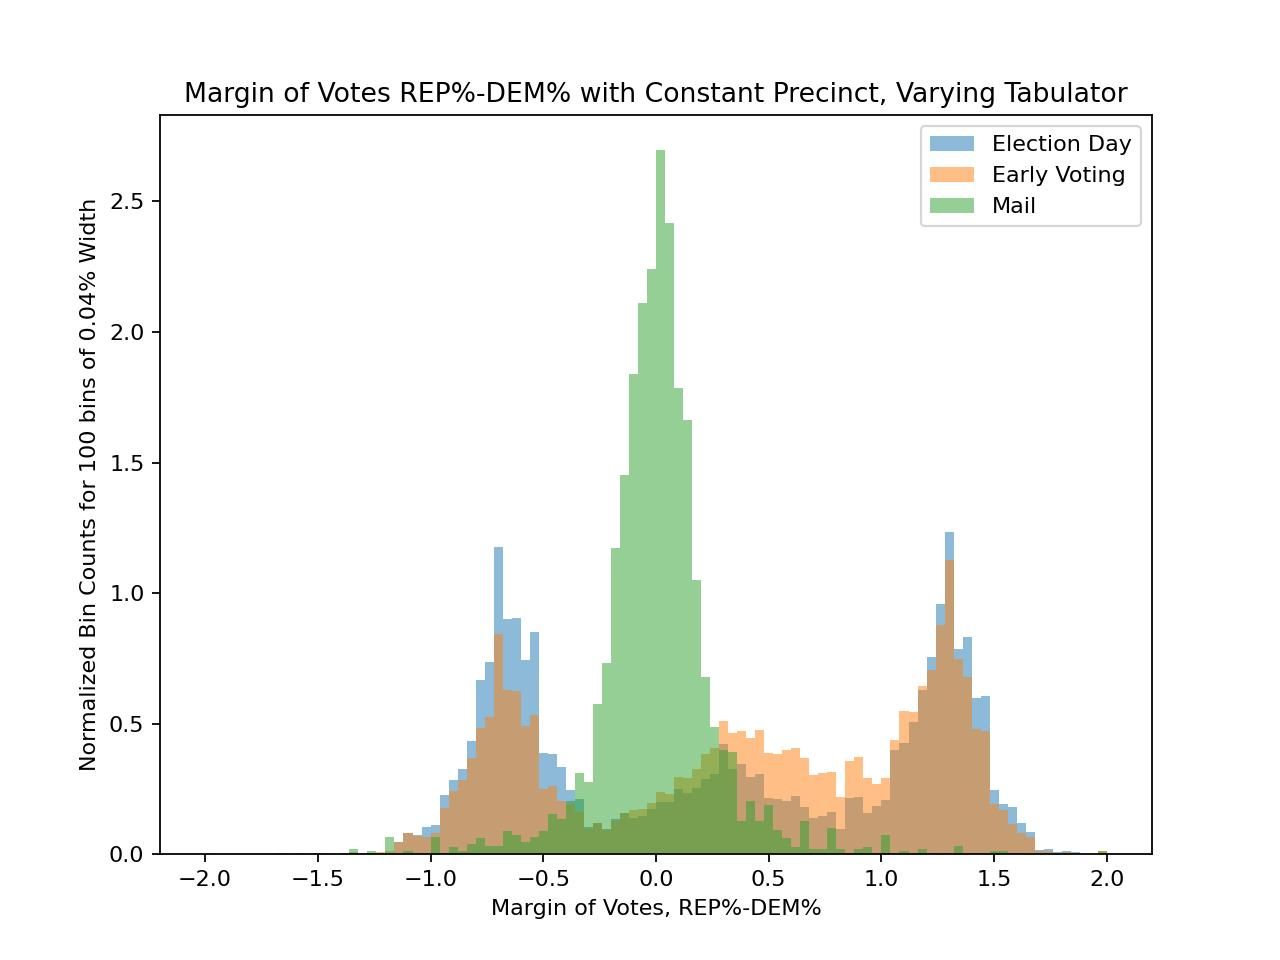
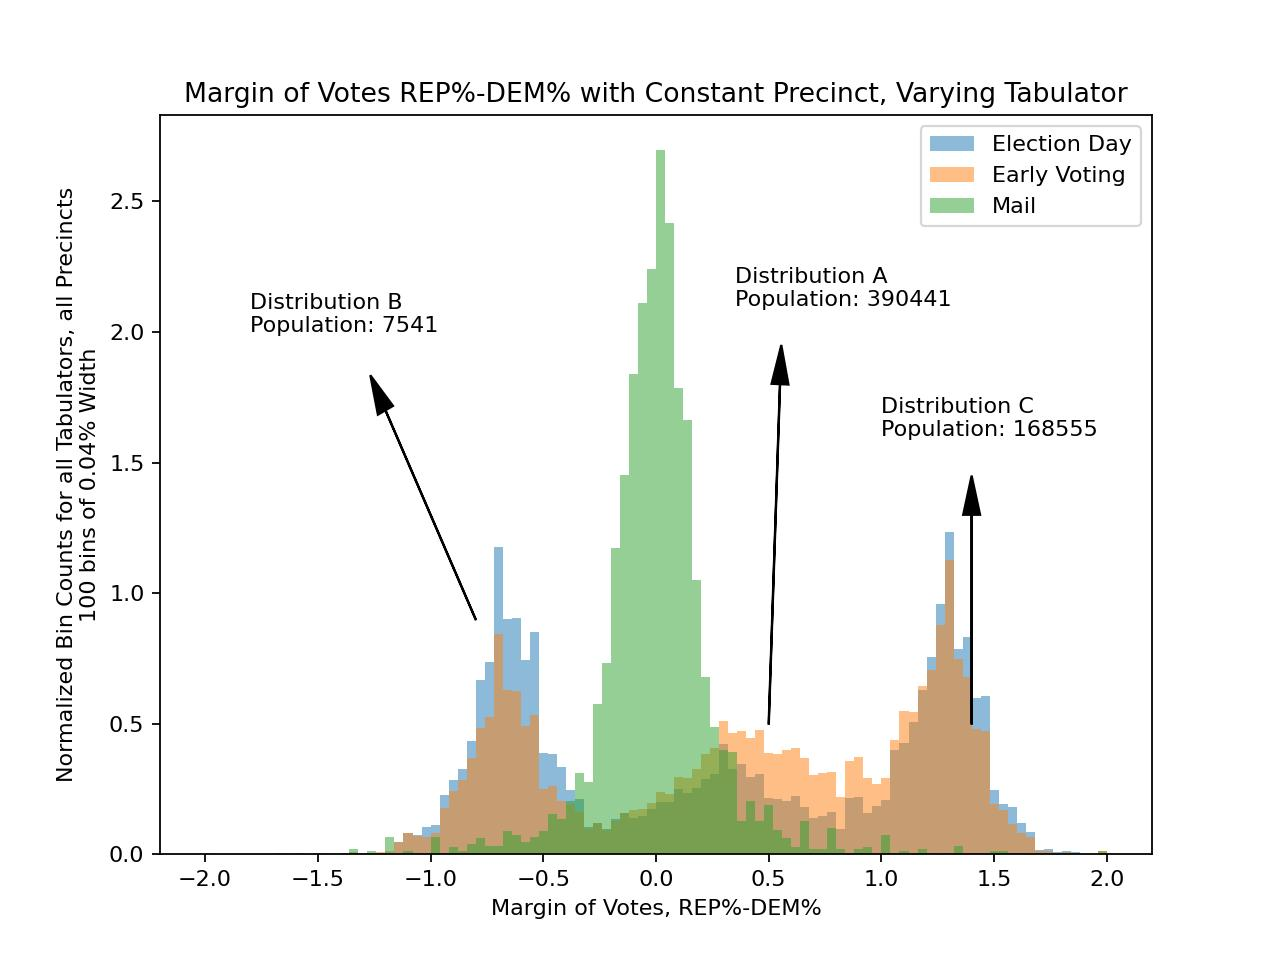
Add files via upload
Updated plots to include arrows and population of each sub-distribution of the early voting and election day histograms

diff --git a/MyClarkCoAnalysis.py b/MyClarkCoAnalysis.py
@@ -288,7 +288,23 @@ plt.hist(np.array(Mrates),bins=100,range=(-2,2),alpha=0.5,label='Mail',density=T
 plt.legend()
 plt.title("Margin of Votes REP%-DEM% with Constant Precinct, Varying Tabulator")
 plt.xlabel("Margin of Votes, REP%-DEM%")
-plt.ylabel("Normalized Bin Counts for 100 bins of 0.04% Width")
+plt.ylabel("Normalized Bin Counts for all Tabulators, all Precincts\n100 bins of 0.04% Width")
+
+#arrow to label the three distributions
+arrow_style = {
+    "head_width": 0.075,
+    "head_length": 0.15,
+    "color":"k"
+}
+plt.arrow(x=0.5,y=0.5,dx=0.05,dy=1.3,**arrow_style)
+plt.annotate('Distribution A\nPopulation: %i'%DistAPop,xy=(1,3/2),xytext=(0.35,2.1))
+
+plt.arrow(x=-0.8,y=0.9,dx=-0.4,dy=0.8,**arrow_style)
+plt.annotate('Distribution B\nPopulation: %i'%DistBPop,xy=(1,3/2),xytext=(-1.8,2.0))
+
+plt.arrow(x=1.4,y=0.5,dx=0.0,dy=0.8,**arrow_style)
+plt.annotate('Distribution C\nPopulation: %i'%DistCPop,xy=(1,3/2),xytext=(1.0,1.6))
+
 plt.savefig("VoteMarginTabulatorHist.pdf")
 plt.savefig("VoteMarginTabulatorHist.jpg")
 
